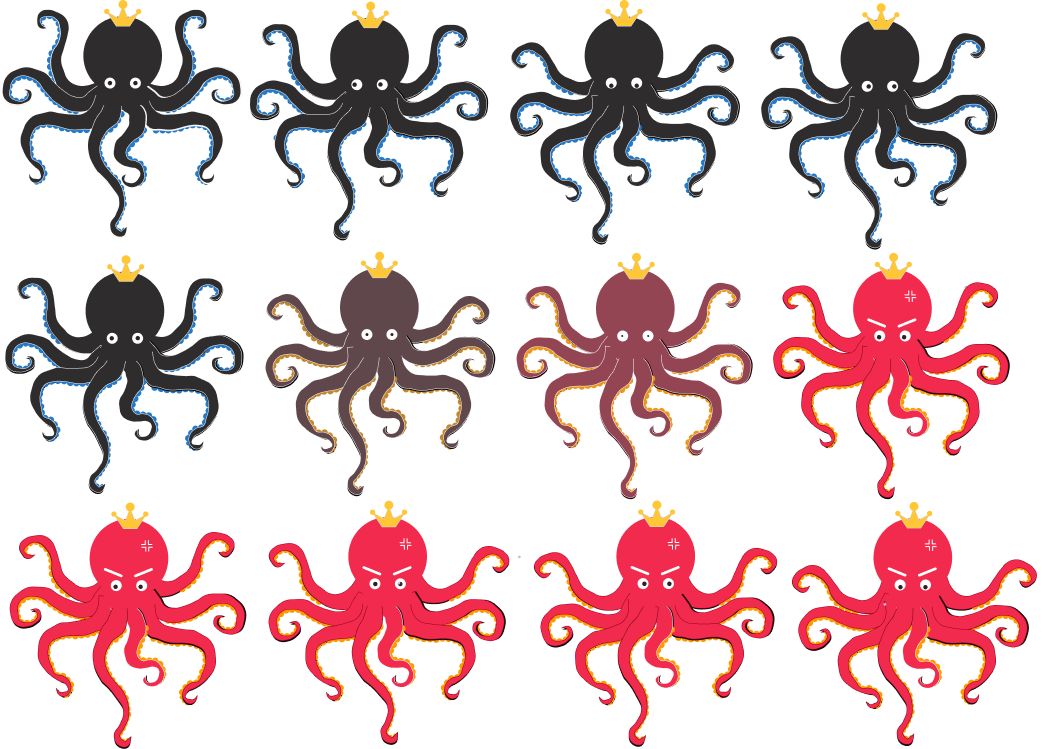
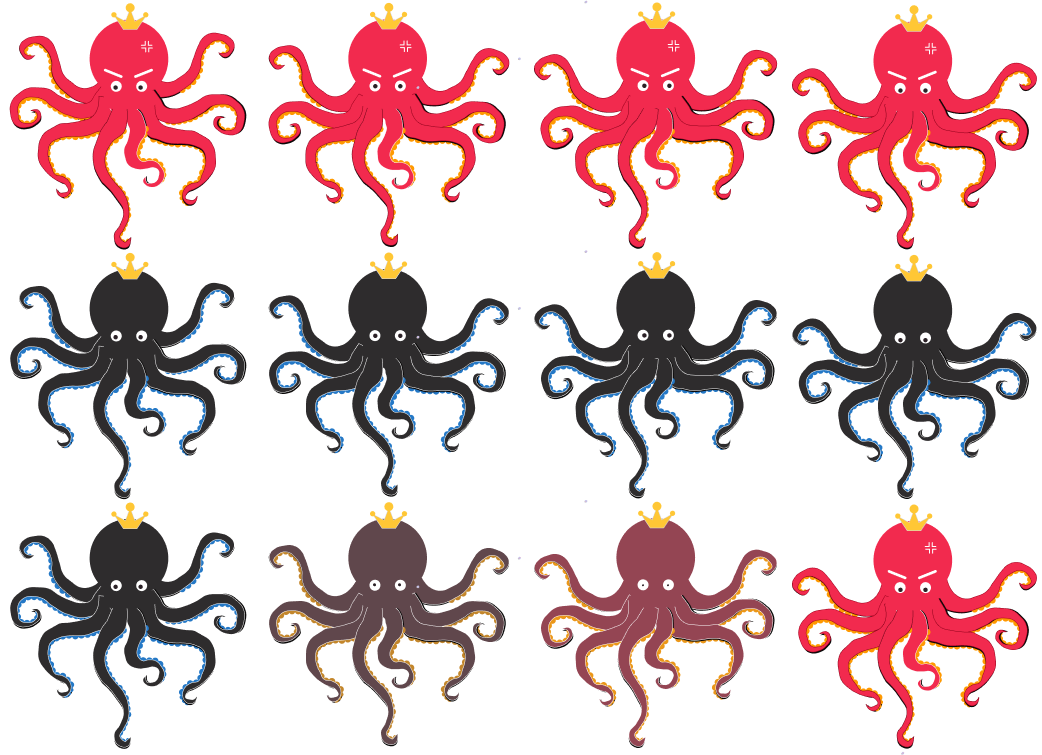
- added new octopus asset

diff --git a/lib/components/octopus/octopus.dart b/lib/components/octopus/octopus.dart
@@ -42,9 +42,9 @@ class Octopus extends SpriteAnimationGroupComponent with UpdateMixin, HasGameRef
         srcSize: Vector2(image.size.x/4,image.size.y/3)
     );
 
-    final normal = spritesheet.createAnimation(row:0,stepTime: 0.25);
-    final transform = spritesheet.createAnimation(row:1,stepTime: 0.25,loop: false);
-    final angry = spritesheet.createAnimation(row:2,stepTime: 0.25);
+    final angry = spritesheet.createAnimation(row:0,stepTime: 0.25);
+    final normal = spritesheet.createAnimation(row:1,stepTime: 0.25);
+    final transform = spritesheet.createAnimation(row:2,stepTime: 0.25,loop: false);
 
     animations = {
       OctopusAnimationState.normal: normal,
